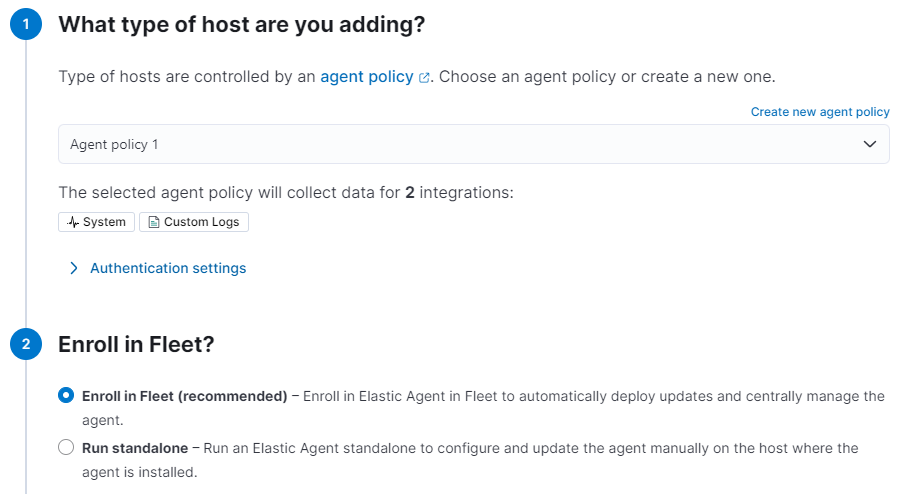
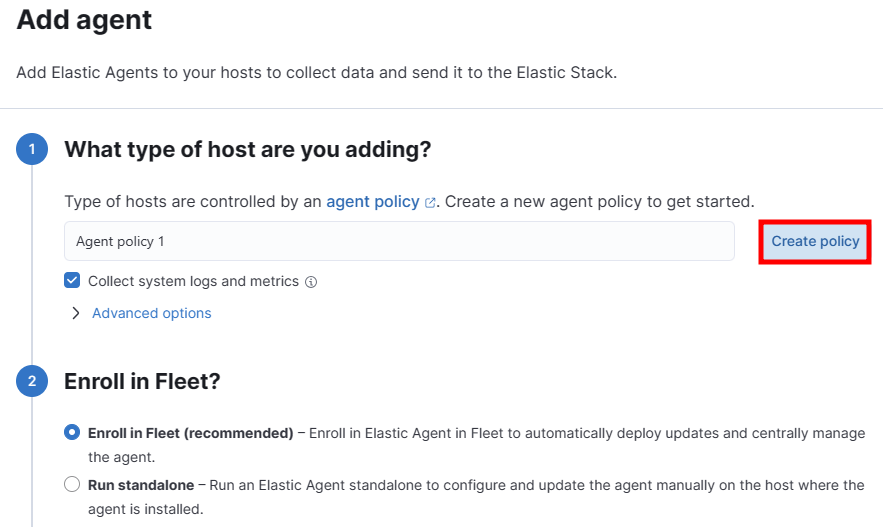
경로 및 접속정보 현행화

diff --git a/2.Install-guide/05-WSL2-elastic-stack-install.md b/2.Install-guide/05-WSL2-elastic-stack-install.md
@@ -40,7 +40,7 @@ k8s 환경에서는 helm chart를 이용하면 다양한 솔루션들을 손 쉽
 $ helm repo add elastic https://helm.elastic.co
 
 # minimal하게 수정한 elasticsearch value 파일로 배포하기
-$ cd elastic-edu/helm/
+$ cd elastic-edu/2.Install-guide/helm
 $ helm install elasticsearch -f ./elasticsearch-values.yaml elastic/elasticsearch -n es --create-namespace &
 
 # 진행상황 확인
@@ -198,6 +198,9 @@ $ kubectl create -f elastic-agent-role-clusterrole-serviceaccount.yaml
 # token 값 수정 후 저장
 $ vi fleet-server.yaml
 
+# tocket value로 마우스 커서를 옮긴 뒤 $를 입력하고 a를 입력 후 text를 지운다. 
+# 마우스 오른쪽을 클릭하여 복사한 내용을 붙이고 :wq! 를 입력하여 저장한다.
+
 # fleet server 설치 (설치 시 fleet server와 Integration server가 둘 다 설치된다.)
 $ kubectl create -f fleet-server.yaml
 
@@ -234,9 +237,17 @@ $ kubectl port-forward -n es svc/fleet-server 8220:8220 &
 
 
 
-* Setting 메뉴 > Outputs 를 수정한다.
+* Elasticsearch, Kibana, Fleet Server까지 기본 설치 완료
 
-<img src="assets\20231023_154337.png">
+ <img src="assets/install-status01.png">
+
+
+
+* Setting 메뉴 > Outputs 에서 Fleet server → Elasticsearch 로 데이터 전송이 될 수 있게 설정한다.
+
+ 
+
+ <img src="assets\20231023_154337.png">
 
 
 
@@ -247,13 +258,7 @@ $ kubectl port-forward -n es svc/fleet-server 8220:8220 &
 * Advanced YAML configuration
   * ssl.verification_mode: none
 
-<img src="assets\20231023_013026.png">
-
-
-
-* Agent policies > 메뉴 > Outputs 를 수정한다.
-
-
+ <img src="assets\20231023_013026.png">
 
 
 
@@ -273,9 +278,9 @@ $ kubectl port-forward -n es svc/fleet-server 8220:8220 &
 
 * Add agent
 
-  * ① Name : Agent policy 1 > 수정 없음
+  * ① Name : Agent policy 1 > Create Policy
 
-  * ② Enroll in Fleet > Enroll in Fleet (recommended) > 수정 없음default 입력 후 Create policy 클릭
+  * ② Enroll in Fleet > Enroll in Fleet (recommended) > 수정 없음
 
     
 
@@ -285,7 +290,9 @@ $ kubectl port-forward -n es svc/fleet-server 8220:8220 &
 
   * ③ Install Elastic Agent on your hosts
 
-  > GCP에서는 정상적으로 적용되나, Windows 환경에서는 메모리 부족 등으로 정상적으로 설치되지 않아 하단 Windows 환경 직접 설치로 진행한다.
+  > GCP에서는 정상적으로 적용되나, Windows 환경에서는 메모리 부족 등으로 정상적으로 설치되지 않는다.
+>
+  > 하단 **2. Windows 환경에 Elastic Agent 설치하기**로 진행한다.
 
   * (Skip) ~~elastic-agent-managed-kubernetes.yml 파일 수정~~
 
@@ -294,7 +301,7 @@ $ kubectl port-forward -n es svc/fleet-server 8220:8220 &
   $ vi elastic-agent-managed-kubernetes.yml
   
   # elastic-agent daemonset 생성
-  $ kubectl apply -f elastic-agent-managed-kubernetes.yml
+$ kubectl apply -f elastic-agent-managed-kubernetes.yml
   ```
 
   
@@ -326,6 +333,8 @@ $ kubectl port-forward -n es svc/fleet-server 8220:8220 &
     
   # **** 중요!! Token 값 뒤에 --insecure 옵션을 추가한다.
   $ .\elastic-agent.exe install --url=https://localhost:8220 --enrollment-token=UVV5emFZc0JNMmpVM1h5WkR2OFg6b1ItdVZqWFZSVEtOT1dOQXU2c0M4UQ== --insecure
+  
+  $ Elastic Agent will be installed at C:\Program Files\Elastic\Agent and will run as a service. Do you want to continue? [Y/n]:y
   
   # 만약 --insecure 옵션을 추가 하지 않은 경우 elastic agent를 삭제 후 재 설치 한다.
   $ C:\"Program Files"\Elastic\Agent\elastic-agent.exe uninstall  
@@ -359,7 +368,7 @@ $ kubectl port-forward -n es svc/fleet-server 8220:8220 &
   
 * Hosts
 
-  * https://elasticsearch-master:9200
+  * https://localhost:9200
 
 * Advanced YAML configuration
 
@@ -383,17 +392,13 @@ $ kubectl port-forward -n es svc/fleet-server 8220:8220 &
 
   <img src="assets\20231026_001144.png">
 
-* Agent monitoring
-
-  * Collect agent logs, Collect agent metrics
-
 * Output for integrations
 
-  * es-master
+  * fleet-es
 
 * Output for agent monitoring
 
-  * es-master
+  * fleet-es
 
   <img src="assets\20231026_001454.png">
 

diff --git a/2.Install-guide/03-GCP-k3s-elastic-install.md b/2.Install-guide/03-GCP-k3s-elastic-install.md
@@ -338,7 +338,7 @@ helm chart를 이용하면 손 쉽게 설치할 수 있다. (Elastic 공식 Helm
 $ helm repo add elastic https://helm.elastic.co
 
 # minimal하게 수정한 elasticsearch value 파일로 배포하기
-$ cd elastic-edu/helm/
+$ cd elastic-edu/2.Install-guide/helm/
 $ helm install elasticsearch -f ./elasticsearch-values.yaml elastic/elasticsearch -n es --create-namespace &
 
 # log 확인
